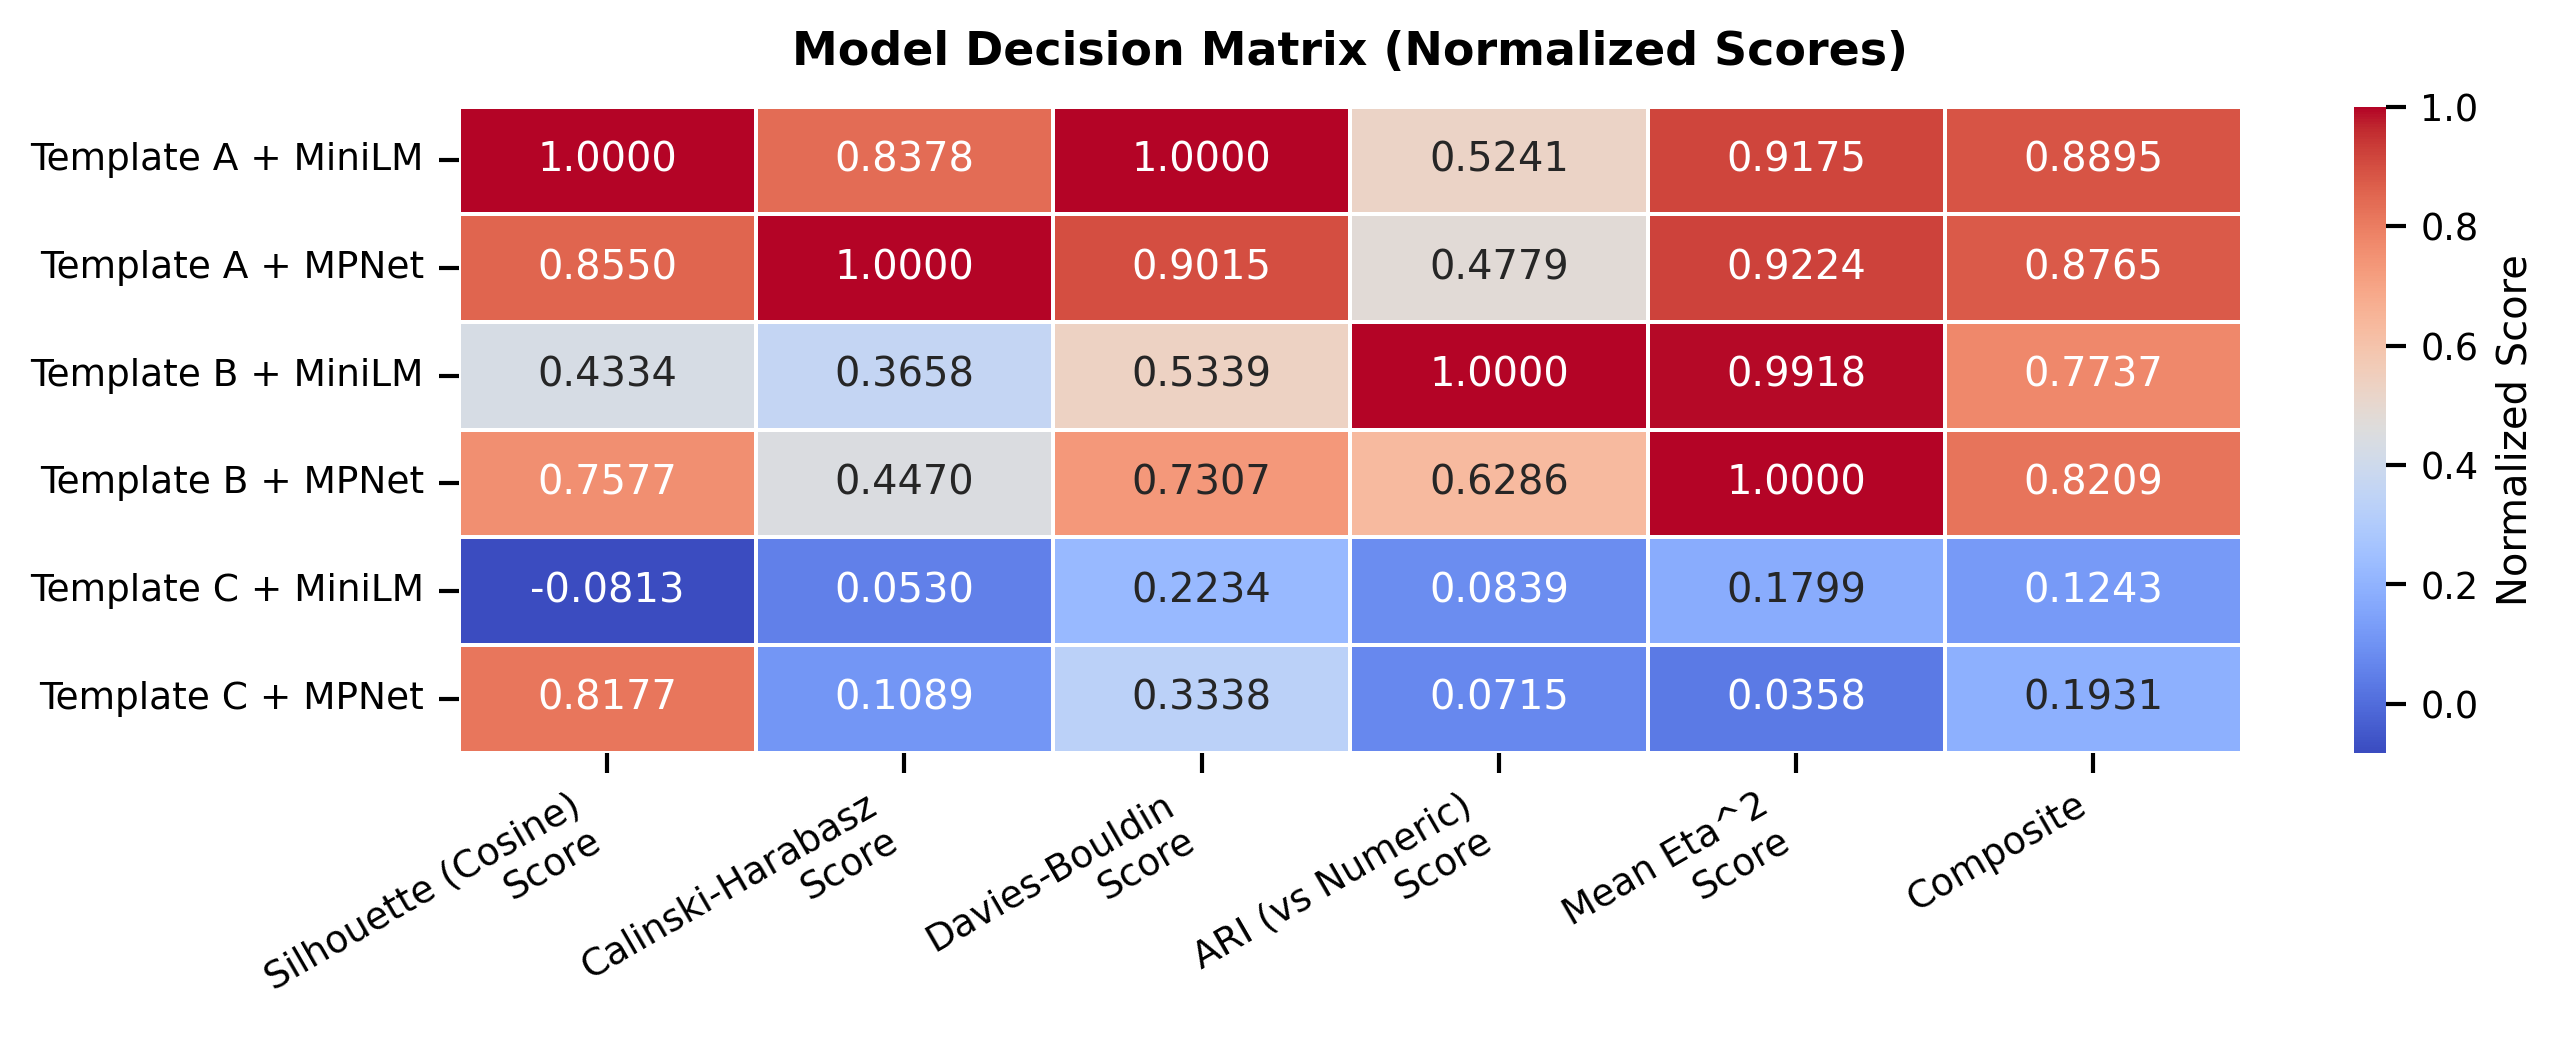
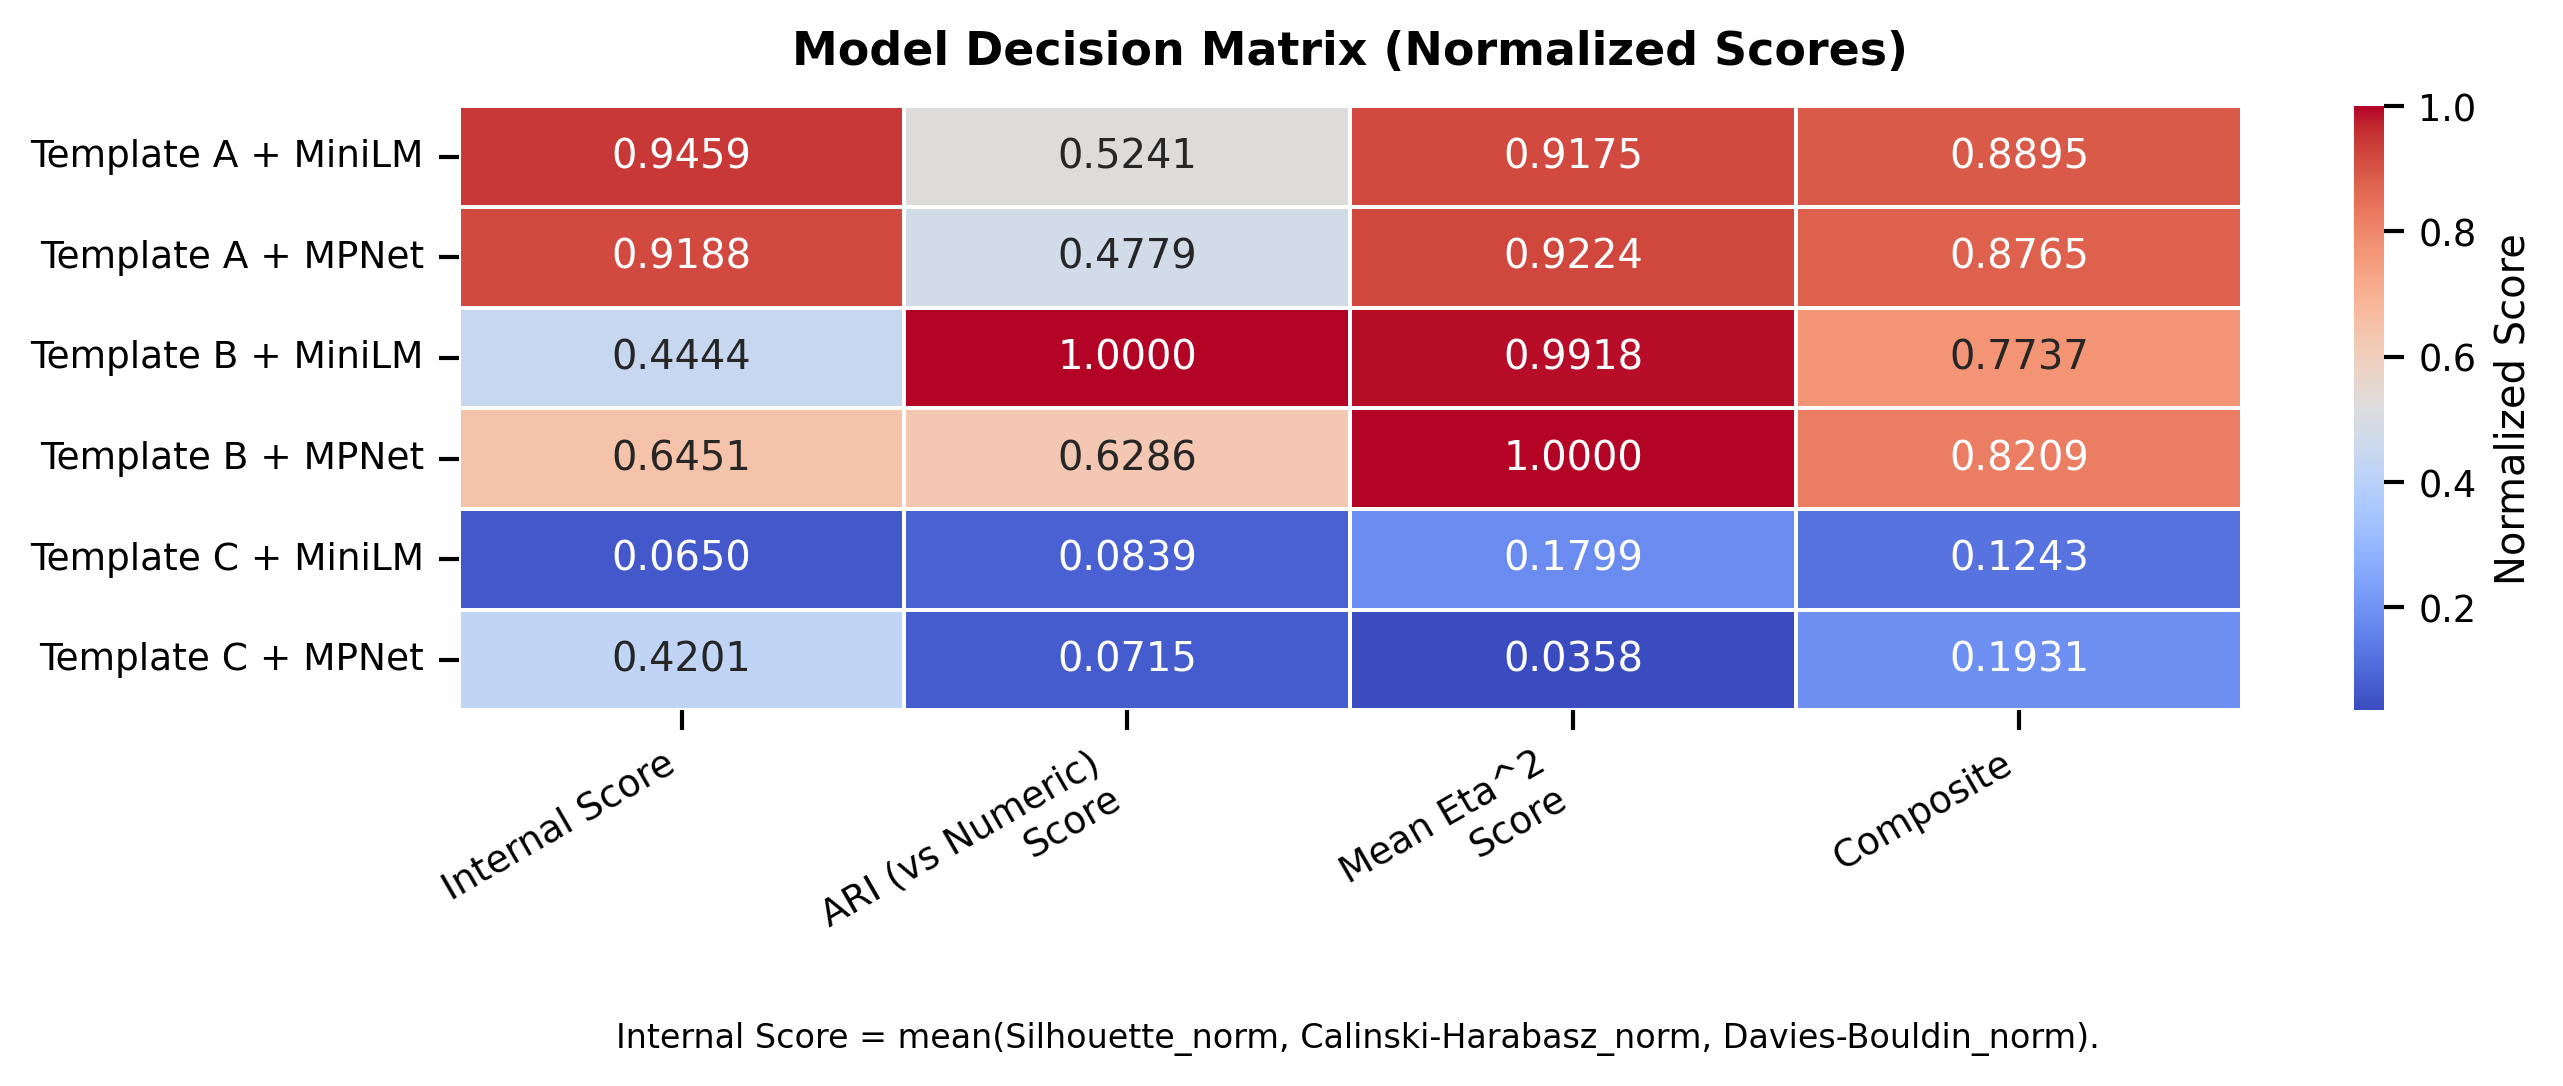
added changes

diff --git a/narrative_embedding_clustering/final result/plot_model_comparison_heatmap.py b/narrative_embedding_clustering/final result/plot_model_comparison_heatmap.py
@@ -5,9 +5,10 @@ import matplotlib.pyplot as plt
 from pathlib import Path
 
 # Configuration
-OUTPUT_DIR = Path("narrative_embedding_clustering/outputs")
-MARKS_PATH = Path("diagnostics/cluster input features/marks_with_clusters.csv")
-FIGURES_DIR = Path("figures")
+PROJECT_ROOT = Path(__file__).resolve().parents[2]
+OUTPUT_DIR = PROJECT_ROOT / "narrative_embedding_clustering" / "outputs"
+MARKS_PATH = PROJECT_ROOT / "diagnostics" / "cluster input features" / "marks_with_clusters.csv"
+FIGURES_DIR = PROJECT_ROOT / "figures"
 
 MODELS = [
     ("Template A", "MPNet", OUTPUT_DIR / "template_A/all_mpnet_base_v2"),
@@ -119,18 +120,33 @@ def plot_heatmap(df):
 
     # Normalize (Max-based normalization)
     # We overwrite the columns with their normalized versions, but keep the original names
-    df_norm["Mean Eta^2\nScore"] = df_norm["Mean Eta^2\nScore"] / df_norm["Mean Eta^2\nScore"].max()
-    df_norm["Silhouette (Cosine)\nScore"] = df_norm["Silhouette (Cosine)\nScore"] / df_norm["Silhouette (Cosine)\nScore"].max()
-    df_norm["Calinski-Harabasz\nScore"] = df_norm["Calinski-Harabasz\nScore"] / df_norm["Calinski-Harabasz\nScore"].max()
+    eta_max = df_norm["Mean Eta^2\nScore"].max()
+    sil_max = df_norm["Silhouette (Cosine)\nScore"].max()
+    ch_max = df_norm["Calinski-Harabasz\nScore"].max()
+    ari_max = df_norm["ARI (vs Numeric)\nScore"].max()
+
+    df_norm["Mean Eta^2\nScore"] = df_norm["Mean Eta^2\nScore"] / eta_max if eta_max else 0
+    df_norm["Silhouette (Cosine)\nScore"] = df_norm["Silhouette (Cosine)\nScore"] / sil_max if sil_max else 0
+    df_norm["Calinski-Harabasz\nScore"] = df_norm["Calinski-Harabasz\nScore"] / ch_max if ch_max else 0
+
     # DB is lower-is-better
-    df_norm["Davies-Bouldin\nScore"] = df_norm["Davies-Bouldin\nScore"].min() / df_norm["Davies-Bouldin\nScore"]
-    df_norm["ARI (vs Numeric)\nScore"] = df_norm["ARI (vs Numeric)\nScore"] / df_norm["ARI (vs Numeric)\nScore"].max()
+    db_series = df_norm["Davies-Bouldin\nScore"].replace(0, np.nan)
+    db_min = db_series.min(skipna=True)
+    df_norm["Davies-Bouldin\nScore"] = (db_min / db_series) if (db_min and not np.isnan(db_min)) else 0
+    df_norm["Davies-Bouldin\nScore"] = df_norm["Davies-Bouldin\nScore"].replace([np.inf, -np.inf], np.nan).fillna(0)
+
+    df_norm["ARI (vs Numeric)\nScore"] = df_norm["ARI (vs Numeric)\nScore"] / ari_max if ari_max else 0
+
+    # Combine internal metrics into a single score (equal weights)
+    df_norm["Internal Score"] = (
+        df_norm["Silhouette (Cosine)\nScore"]
+        + df_norm["Calinski-Harabasz\nScore"]
+        + df_norm["Davies-Bouldin\nScore"]
+    ) / 3
     
     # Composite Score calculation
     df_norm["Composite"] = (0.5 * df_norm["Mean Eta^2\nScore"]) + \
-                           (0.1333333333 * df_norm["Silhouette (Cosine)\nScore"]) + \
-                           (0.1333333333 * df_norm["Davies-Bouldin\nScore"]) + \
-                           (0.1333333333 * df_norm["Calinski-Harabasz\nScore"]) + \
+                           (0.4 * df_norm["Internal Score"]) + \
                            (0.1 * df_norm["ARI (vs Numeric)\nScore"])
     
     # Prepare data for heatmap
@@ -145,9 +161,7 @@ def plot_heatmap(df):
     
     # Select columns to plot - Matching Raw Table Order + Composite
     cols_to_plot = [
-        "Silhouette (Cosine)\nScore", 
-        "Calinski-Harabasz\nScore", 
-        "Davies-Bouldin\nScore", 
+        "Internal Score",
         "ARI (vs Numeric)\nScore", 
         "Mean Eta^2\nScore", 
         "Composite"
@@ -167,8 +181,10 @@ def plot_heatmap(df):
     plt.ylabel("") # Hide "Label" label
     plt.xticks(rotation=30, ha='right', fontsize=9)
     plt.yticks(rotation=0, fontsize=9)
-    
-    plt.tight_layout(pad=0.5)
+
+    internal_note = "Internal Score = mean(Silhouette_norm, Calinski-Harabasz_norm, Davies-Bouldin_norm)."
+    plt.figtext(0.5, 0.01, internal_note, ha='center', fontsize=8)
+    plt.tight_layout(pad=0.5, rect=[0, 0.06, 1, 1])
     
     if not FIGURES_DIR.exists():
         FIGURES_DIR.mkdir(exist_ok=True)
@@ -176,6 +192,7 @@ def plot_heatmap(df):
     output_path = FIGURES_DIR / "model_decision_heatmap.png"
     plt.savefig(output_path, dpi=300, bbox_inches='tight')
     print(f"Heatmap saved to {output_path}")
+    print(internal_note)
 
 if __name__ == "__main__":
     df = get_comparison_data()

diff --git a/narrative_embedding_clustering/final result/plot_final_table_heatmap.py b/narrative_embedding_clustering/final result/plot_final_table_heatmap.py
@@ -5,8 +5,9 @@ from pathlib import Path
 import numpy as np
 
 # Configuration
-INPUT_FILE = Path("narrative_embedding_clustering/final result/final_model_comparison.csv")
-OUTPUT_FILE = Path("figures/final_model_comparison_heatmap.png")
+PROJECT_ROOT = Path(__file__).resolve().parents[2]
+INPUT_FILE = PROJECT_ROOT / "narrative_embedding_clustering" / "final result" / "final_model_comparison.csv"
+OUTPUT_FILE = PROJECT_ROOT / "figures" / "final_model_comparison_heatmap.png"
 
 def normalize_column(series, invert=False):
     """Normalize a pandas series to 0-1 range. 
@@ -91,6 +92,7 @@ def main():
     plt.yticks(rotation=0, fontsize=9)
     
     plt.tight_layout(pad=0.5)
+    OUTPUT_FILE.parent.mkdir(parents=True, exist_ok=True)
     plt.savefig(OUTPUT_FILE, dpi=300, bbox_inches='tight')
     print(f"Heatmap saved to {OUTPUT_FILE}")
 
